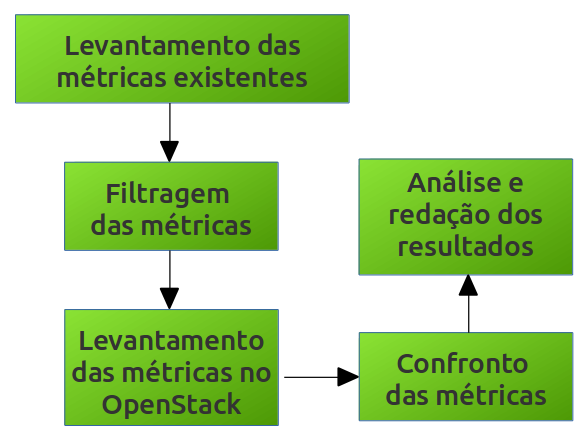
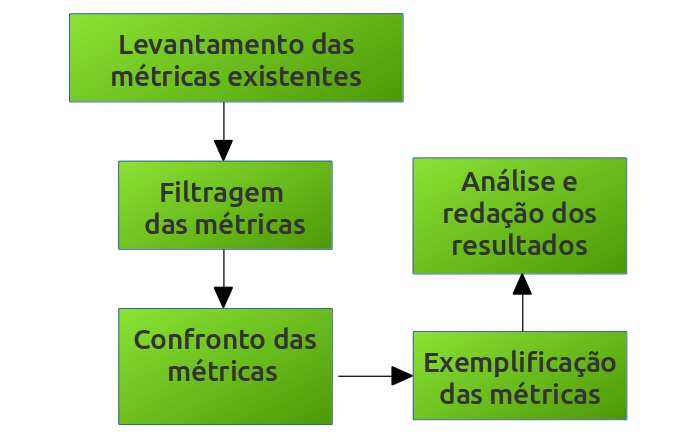
Varias coisas

Changed region(s): [[0.0, 0.0297, 0.9796, 0.9795]]

diff --git a/artigo_ieee.tex b/artigo_ieee.tex
@@ -501,7 +501,7 @@ O OpenStack é bastante robusto, capaz de controlar uma grande de quantidade
 de recursos computacionais em um \textit{data center}, o que exige uma infraestrutura de \textit{hardware} 
 considerável para seu funcionamento pleno \cite{openstack_general} \cite{openstack}.
 
-O gerenciamento e controle da infraestrutura da nuvem pelo usuário podem ser realizados por meio de uma aplicação \textit{web}
+O gerenciamento e controle da infraestrutura da nuvem pelo usuário podem ser realizados por meio de uma aplicação \textit{Web}
 (subprojeto \textit{Horizon}), via linha de comando (\textit{Command Line Interface} (CLI)) e/ou APIs RESTful \cite{bui2016} \cite{openstack}.
 Em relação à integração interna dos módulos do \textit{OpenStack}, esta é realizada por meio de APIs RESTful e 
 de \textit{Remote Procedure Call} (RPC) via RabbitMQ (ferramenta que implementa a comunicação inter-processos seguindo o protocolo
@@ -578,9 +578,9 @@ Para atingir o objetivo deste trabalho foi utilizada a metodologia apresentada n
 \centering
  \caption{Métricas encontradas na literatura}
 \label{tab:metricas_literatura}
-\begin{tabular}{|l|l|l|}
+\begin{tabular}{lll}
 \hline
-\multicolumn{1}{|c|}{\textbf{Métrica}}                                                       & \multicolumn{1}{c|}{\textbf{Categoria}}                                                                    & \multicolumn{1}{c|}{\textbf{Artigo}}                                                    \\ \hline
+\multicolumn{1}{c}{\textbf{Métrica}}                                                       & \multicolumn{1}{c}{\textbf{Categoria}}                                                                    & \multicolumn{1}{c}{\textbf{Artigo}}                                                    \\ \hline
 Algoritmos de criptografia                                                                   & Segurança                                                                                                  & \multirow{9}{*}{Artigo 6 [19]}                                                          \\ \cline{1-2}
 Apreensibilidade do serviço                                                                  & Usabilidade                                                                                                &                                                                                         \\ \cline{1-2}
 Controle de acesso                                                                           & Segurança                                                                                                  &                                                                                         \\ \cline{1-2}
@@ -591,7 +591,7 @@ Instalabilidade do IaaS                                                         
 Privacidade dos Dados                                                                        & Segurança                                                                                                  &                                                                                         \\ \cline{1-2}
 \begin{tabular}[c]{@{}l@{}}Tempo médio entre \\ falhas (MTBF)\end{tabular}                   & Confiabilidade                                                                                             &                                                                                         \\ \hline
 Políticas de controle de acesso                                                              & \begin{tabular}[c]{@{}l@{}}Segurança/ \\ Privacidade\end{tabular}                                          & Artigo 5 [18]                                                                           \\ \hline
-Custo de VM                                                                                  & Custo                                                                                                      & \begin{tabular}[c]{@{}l@{}}Artigo 5 [18]; \\ Artigo 4 [1]\end{tabular}                  \\ \hline
+Custo de VM                                                                                  & Custo                                                                                                      & \begin{tabular}[c]{@{}l@{}}Artigo 5 [18] \\ Artigo 4 [1]\end{tabular}                  \\ \hline
 \begin{tabular}[c]{@{}l@{}}Armazenamento \\ (memória permanente, ex.HD)\end{tabular}         & -                                                                                                          & \multirow{16}{*}{Artigo 3 [3]}                                                          \\ \cline{1-2}
 Banco de dados NoSQL                                                                         & -                                                                                                          &                                                                                         \\ \cline{1-2}
 Camadas de aplicação                                                                         & -                                                                                                          &                                                                                         \\ \cline{1-2}
@@ -608,10 +608,10 @@ Servidores de aplicação                                                       
 \begin{tabular}[c]{@{}l@{}}Sistema Operacional\\  (Tipo, Plataforma, Versão)\end{tabular}    & -                                                                                                          &                                                                                         \\ \cline{1-2}
 Suporte a SGBD relacional                                                                    & -                                                                                                          &                                                                                         \\ \cline{1-2}
 Tipo de aplicação                                                                            & -                                                                                                          &                                                                                         \\ \hline
-Segurança (métrica geral)                                                                    & -                                                                                                          & \begin{tabular}[c]{@{}l@{}}Artigo 3 [3]; \\ Artigo 6 [19]\end{tabular}                  \\ \hline
-\begin{tabular}[c]{@{}l@{}}Memória (RAM requerida \\ para instância)\end{tabular}            & \begin{tabular}[c]{@{}l@{}}Garantia/ \\ Sustentabilidade \\ do serviço\end{tabular}                        & \multirow{2}{*}{\begin{tabular}[c]{@{}l@{}}Artigo 3 [3]; \\ Artigo 4 [1]\end{tabular}}  \\ \cline{1-2}
+Segurança (métrica geral)                                                                    & -                                                                                                          & \begin{tabular}[c]{@{}l@{}}Artigo 3 [3] \\ Artigo 6 [19]\end{tabular}                  \\ \hline
+\begin{tabular}[c]{@{}l@{}}Memória (RAM requerida \\ para instância)\end{tabular}            & \begin{tabular}[c]{@{}l@{}}Garantia/ \\ Sustentabilidade \\ do serviço\end{tabular}                        & \multirow{2}{*}{\begin{tabular}[c]{@{}l@{}}Artigo 3 [3] \\ Artigo 4 [1]\end{tabular}}  \\ \cline{1-2}
 Tempo de resposta (aplicação)                                                                & Performance                                                                                                &                                                                                         \\ \hline
-Disponibilidade                                                                              & -                                                                                                          & \begin{tabular}[c]{@{}l@{}}Artigo 3 [3]; \\ Artigo 4 [1]; \\ Artigo 6 [19]\end{tabular} \\ \hline
+Disponibilidade                                                                              & -                                                                                                          & \begin{tabular}[c]{@{}l@{}}Artigo 3 [3] \\ Artigo 4 [1] \\ Artigo 6 [19]\end{tabular} \\ \hline
 \begin{tabular}[c]{@{}l@{}}Atraso de transferência \\ TCP/UDP/IP\end{tabular}                & \begin{tabular}[c]{@{}l@{}}Performance / \\ Comunicação/ \\ Latência\end{tabular}                          & \multirow{2}{*}{Artigo 2 [4]}                                                           \\ \cline{1-2}
 \begin{tabular}[c]{@{}l@{}}Velocidade de transferência \\ bit/byte TCP/UDP/IP\end{tabular}   & \begin{tabular}[c]{@{}l@{}}Performance / \\ Comunicação/ \\ Taxa de transferência \\ de dados\end{tabular} &                                                                                         \\ \hline
 Confidencialidade                                                                            & \begin{tabular}[c]{@{}l@{}}Segurança /\\ Autenticação\end{tabular}                                         & \multirow{9}{*}{Artigo 1 [5]}                                                           \\ \cline{1-2}
@@ -623,7 +623,13 @@ Tempo de boot                                                                   
 Tempo de computação                                                                          & \begin{tabular}[c]{@{}l@{}}Performance / \\ Tempo\end{tabular}                                             &                                                                                         \\ \cline{1-2}
 Utilização de recursos                                                                       & Eficiência                                                                                                 &                                                                                         \\ \cline{1-2}
 Velocidade de memória                                                                        & \begin{tabular}[c]{@{}l@{}}Performance /\\  Memória\end{tabular}                                           &                                                                                         \\ \hline
-Carga de CPU                                                                                 & \begin{tabular}[c]{@{}l@{}}Performance /\\ Computação\end{tabular}                                         & \multirow{21}{*}{\begin{tabular}[c]{@{}l@{}}Artigo 1 [5]; \\ Artigo 2 [4]\end{tabular}} \\ \cline{1-2}
+\end{tabular}
+\end{table}
+
+\begin{table}
+\begin{tabular}{lll}
+\hline
+Carga de CPU                                                                                 & \begin{tabular}[c]{@{}l@{}}Performance /\\ Computação\end{tabular}                                         & \multirow{21}{*}{\begin{tabular}[c]{@{}l@{}}Artigo 1 [5] \\ Artigo 2 [4]\end{tabular}} \\ \cline{1-2}
 \begin{tabular}[c]{@{}l@{}}Custo de recursos de \\ componentes\end{tabular}                  & Economia / Custo                                                                                           &                                                                                         \\ \cline{1-2}
 Custo por FLOP                                                                               & Economia / Custo                                                                                           &                                                                                         \\ \cline{1-2}
 Custo por tempo fixo                                                                         & Economia / Custo                                                                                           &                                                                                         \\ \cline{1-2}
@@ -847,7 +853,7 @@ Taxa de erros de conexão                          & \cellcolor[HTML]{EA9999}Nã
 \begin{tabular}{@{}lll@{}}
 \toprule
 \multicolumn{3}{c}{\textbf{Estáticas}}                                                                  \\ \midrule
-\textbf{Categoria}         & \textbf{Métrica}                               & \textbf{Há no Openstack?} \\
+\multicolumn{1}{c}{\textbf{Categoria}} & \multicolumn{1}{c}{\textbf{Métrica}}                                                  & \multicolumn{1}{c}{\textbf{Há no Openstack?}} \\
 Economia                   & Custo total                                    & -                         \\
 \multirow{3}{*}{Geral}     & Suporte a banco de dados NoSQL                 & Sim                       \\
                            & \begin{tabular}[c]{@{}l@{}}Sistema Operacional \\ (Tipo, Plataforma, Versão)\end{tabular} & Sim                       \\
@@ -864,7 +870,7 @@ Economia                   & Custo total                                    & - 
 \label{tab:confronto_dinamicas}
 \begin{tabular}{@{}lll@{}}
 \toprule
-\multicolumn{1}{c}{Dinâmicas}          &                                                                                       &                                               \\ \midrule
+\multicolumn{3}{c}{\textbf{Dinâmicas}}                                                                  \\ \midrule
 \multicolumn{1}{c}{\textbf{Categoria}} & \multicolumn{1}{c}{\textbf{Métrica}}                                                  & \multicolumn{1}{c}{\textbf{Há no Openstack?}} \\
 \multirow{2}{*}{Confiabilidade}        & Confiabilidade (número de erros)                                                      & Não                                           \\
                                        & Tempo médio entre falhas (MTBF)                                                       & Não                                           \\
@@ -905,9 +911,8 @@ métricas relacionadas. Todas as métricas fornecidas pela ferramenta podem ser 
     \subitem - Volume de RAM utilizado pela instância (memory.usage);
     \subitem - Volume de RAM utilizada por projeto.
  \item \textbf{Armazenamento (Memória permanente. ex: HD)}
-    \subitem - Tamanho do disco do nó de processamento (disk.root.size);
+    \subitem - Tamanho do disco  (disk.root.size);
     \subitem - Memória permanente utilizada por projeto;
-    \subitem - Memória permante utilizada por instância.
  \item \textbf{Latência máxima  (aplicação)}
     \subitem - Latência média do disco (disk.latency);
     \subitem - Latência média do disco por dispositivo (disk.device.latency).
@@ -934,9 +939,11 @@ métricas relacionadas. Todas as métricas fornecidas pela ferramenta podem ser 
     \subitem - Frequência da CPU (compute.node.cpu.frequency);
   \item \textbf{Eficiência da Instância}    
     \subitem - Utilização da CPU (compute.node.cpu.percent);
-    \item \textbf{Frequência de perda de pacotes}   
+  \item \textbf{Frequência de perda de pacotes}   
     \subitem - Taxa de entrada de pacotes (network.incoming.packets.rate);
     \subitem - Taxa de saída de pacotes (network.outgoing.packets.rate);
+    \subitem - Número de pacotes recebidos (network.incoming.packets);
+    \subitem - Número de pacotes enviados (network.outgoing.packets);
   \item \textbf{Performance de I/O} 
     \subitem - Número de requisições de leitura (disk.read.requests);
     \subitem - Taxa média de requisições de leitura (disk.read.requests.rate);
@@ -948,7 +955,7 @@ métricas relacionadas. Todas as métricas fornecidas pela ferramenta podem ser 
     \subitem - Taxa média de escritas (disk.write.bytes.rate);
  \end{itemize}  
 
-  \subsection{Validação das métricas} 
+  \subsection{Exemplificação das métricas} 
     Para verificar como se apresentavam as métricas ditas presentes no OpenStack, foi executado um cenário de teste de uso da ferramenta
     para coletar tais métricas obtidas na seção \ref{confronto}. 
     A Subseção \ref{cenario} descreve o cenário utilizado, a Subseção \ref{plano_medicao} apresenta o planejamento para a
@@ -959,23 +966,40 @@ métricas relacionadas. Todas as métricas fornecidas pela ferramenta podem ser 
 	A coleta dos dados foi realizada no seguinte cenário/contexto:
 	
 	\begin{itemize}
-	 \item Duas pessoas com dedicação parcial como equipe de coleta; % COLOCA DEDICAÇÃO PARCIAL ?
+% 	 \item Duas pessoas com dedicação parcial como equipe de coleta; % COLOCA DEDICAÇÃO PARCIAL ?
 	 \item Laboratório com máquinas que possuiam recursos de \textit{hardware} simples;
 	    \subitem Apenas máquinas com 4GB de memória RAM no máximo.
 	 \item Utilização da versão \textit{Kilo} do OpenStack;
 	 \item Utilização do CentOS 7 \cite{centos} como sistema operacional;
-	 \item Utilização da topologia apresentada na Figura \ref{fig:topologia};
+	 \item Utilização da topologia apresentada na Figura \ref{fig:topologia} para instalação do OpenStack;
 	    \subitem Foram utilizados dois computadores interconectados para distribuir a carga de processamento entre eles, 
-		     de modo que um computador ficava com o nó Controlador (\textit{Controller}) e o outro computador ficava
-		     com os nós de Processamento (\textit{Compute}) e de Rede (\textit{Network}), como ilustra a Figura \ref{fig:topologia}.
-	    \subitem A topologia utilizada foi baseada na topologia proposta por Ahmad Imanudin em \cite{imanudin}.
+		  de modo que um computador ficava com o nó Controlador (\textit{Controller}) e o outro computador ficava
+		     com os nós de Processamento (\textit{Compute}) e de Rede (\textit{Network}), como ilustra a Figura \ref{fig:topologia};
+	    \subitem A topologia utilizada foi baseada na topologia proposta por Ahmad Imanudin em \cite{imanudin};
+	  \item Criação de duas instâncias.
 	\end{itemize}
+	
+	\begin{figure}[ht]
+	\centering
+	\includegraphics[width=.5\textwidth]{figuras/topologia.png}
+	\caption{Topologia utilizada na instalação do OpenStack. Fonte: Autores.}
+	\label{fig:topologia}
+	\end{figure}
+	
+	Foram criadas duas instâncias na ferramenta para os dados serem coletados com as características elencadas abaixo. 
+	A topologia pode ser vista na Figura \ref{fig:instancias}.
+
+	\begin{itemize}
+	 \item Memória: 512 MB
+	 \item Sistema Operacional: CirrOS
+	\end{itemize}
+    
 	 
 	\begin{figure}[ht]
 	\centering
 	\includegraphics[width=.5\textwidth]{figuras/topologia.png}
-	\caption{Topologia utilizada no cenário de teste. Fonte: Autor.}
-	\label{fig:topologia}
+	\caption{Topologia utilizada como cenário de teste. {\tiny \textit{Imagem Retirada da Ferramenta}}}
+	\label{fig:instancias}
 	\end{figure}
 	
 	Foi utilizada a versão \textit{Kilo} \cite{openstack_kilo} do OpenStack por ser uma versão estável e mais leve, devido a
@@ -984,30 +1008,63 @@ métricas relacionadas. Todas as métricas fornecidas pela ferramenta podem ser 
 	sua arquitetura não distoa muito do seu sucessor subsequente ainda suportado, o OpenStack \textit{Liberty}, o que
 	não impacta significativamente nem invalida o presente trabalho \cite{openstack_liberty}.
 
-	
-	%%%%%%%%%%%%%%%%%%%%%%%%%%%%%%
-% % % %  PROBLEMA: O OpenStack Kilo já está em End-Of-Life... Versão ainda suportada: Liberty.
-% % % %  Ou colocar como trabalho futuro, ou tentar trocar a versão.
-	%%%%%%%%%%%%%%%%%%%%%%%%%%%%%%
-    
-%     \subsubsection{Plano de Medição} \label{plano_medicao}
-%     
-%     \subsubsection{Resultados} \label{resultados_levantamento}
+		    
+    \subsubsection{Resultados} \label{resultados_levantamento}
   
+	As métricas foram coletadas por meio do serviço de coleta de dados (módulo - \textit{Ceilometer}) e 
+	da aplicação \textit{Web} (módulo \textit{Horizon}). 
+	
+	Todas as métricas coletadas pelo serviço \textit{Ceilometer} foram obtidas pelo comando \textit{ceilometer meter-list} e
+	pode ser visualizada na Tabela \ref{tab:meters_list}.
+	
+% 	  \caption{Lista de métricas coletadas pelo \textit{Ceilometer}.}
+% 	  \label{tab:meters_list}
+	
+	Com o cenário de teste realizado as métricas coletadas podem ser vista na Tabela \ref{tab:metricas_coletadas}.
+	
+\begin{table}[h!]
+\centering
+\caption{Métricas coletadas no cenário de teste}
+\label{tab:metricas_coletadas}
+\begin{tabular}{@{}lcccc@{}}
+\toprule
+\multicolumn{1}{c}{Métrica}   & Max      & Min      & Media      & Unidade       \\ \midrule
+cpu\_util                     & 16.11    & 0        & 7.9        & \%            \\
+memory                        & 512      & 512      & 512        & MB            \\
+memory.usage                  & -        & -        & -          & MB            \\
+disk.root.size                & 1        & 1        & 1          & GB            \\
+vcpus                         & 1        & 1        & 1          & nº vCPUs      \\
+network.incoming.packets      & 19       & 8        & 11.75      & pacotes       \\
+network.incoming.packets.rate & 0.0016   & 0.00011  & 0.00011    & pacotes/s     \\
+network.outgoing.packets      & 9        & 9        & 9          & pacotes       \\
+network.outgoing.packets.rate & 0        & 0        & 0          & pacotes/s     \\
+disk.read.requests            & 1122     & 877      & 1032.77    & requisições   \\
+disk.read.requests.rate       & 0.23     & 0        & 0.015      & requisições/s \\
+disk.write.requests           & 134      & 55       & 111.9      & requisições   \\
+disk.write.requests.rate      & 0.091    & 0        & 0.001      & requisições/s \\
+disk.read.bytes               & 20436992 & 18510848 & 20245043.2 & bytes         \\
+disk.read.bytes.rate          & 3700.63  & 0        & 206.49     & bytes/s       \\
+disk.write.bytes              & 397312   & 206848   & 348262.4   & bytes         \\
+disk.write.bytes.rate         & 268.85   & 0        & 22.14      & bytes/s       \\ \bottomrule
+\end{tabular}
+\end{table}
 
 \section{Conclusão}
 Com a revisão de literatura realizada foi possível coletar 68 métricas relacionadas a QoS para serviços de nuvem, das quais
 35 foram avaliadas no Openstack. Na avaliação foi possível perceber que o Openstack provia 40\% das métricas exatas e além disso
-possuia algumas outras métricas relacionadas com as métricas identificadas.
+possuia algumas outras métricas relacionadas com as métricas identificadas. 
 
-% .....
+O número de métricas encontradas deve-se ao fato de que o Openstack possui um módulo apenas para coleta de métricas. 
+Os resultados obtidos neste trabalham servem de insumo para outros estudos relacionadas e para construção de ferramentas de seleção de 
+serviços de nuvem, auxiliando no levantamento das métricas possíveis de serem extraídas do Openstack.
 
 Uma limitação identificada do trabalho é que foi considerada uma versão antiga da ferramenta. Outra limitação é que as métricas
 foram identificadas por uma revisão simples de literatura, o que não possibilitou uma visibilidade do máximo de trabalhos possíveis,
-ou seja, foram considerados poucos estudos relacionados.
+ou seja, foram considerados poucos estudos relacionados. A análise de apenas métricas nativas sem a consideração de \textit{plugins} e/ou
+outras ferramentas também é considerada uma limitação.
 
-Como proposta de trabalho futuro é vista a aplicação de uma revisão sistemática com o intuito de encontrar mais métricas e aplicá-las para
-uma versão mais atual do Openstack.
+Como trabalho futuro é visto a aplicação de uma revisão sistemática com o intuito de encontrar mais métricas e aplicá-las para
+uma versão mais atual do Openstack e considerar outras ferramentas.
 
 
 %%%%%%%%%%%%%%%%%%%%%%%%%%%%%%%%%
